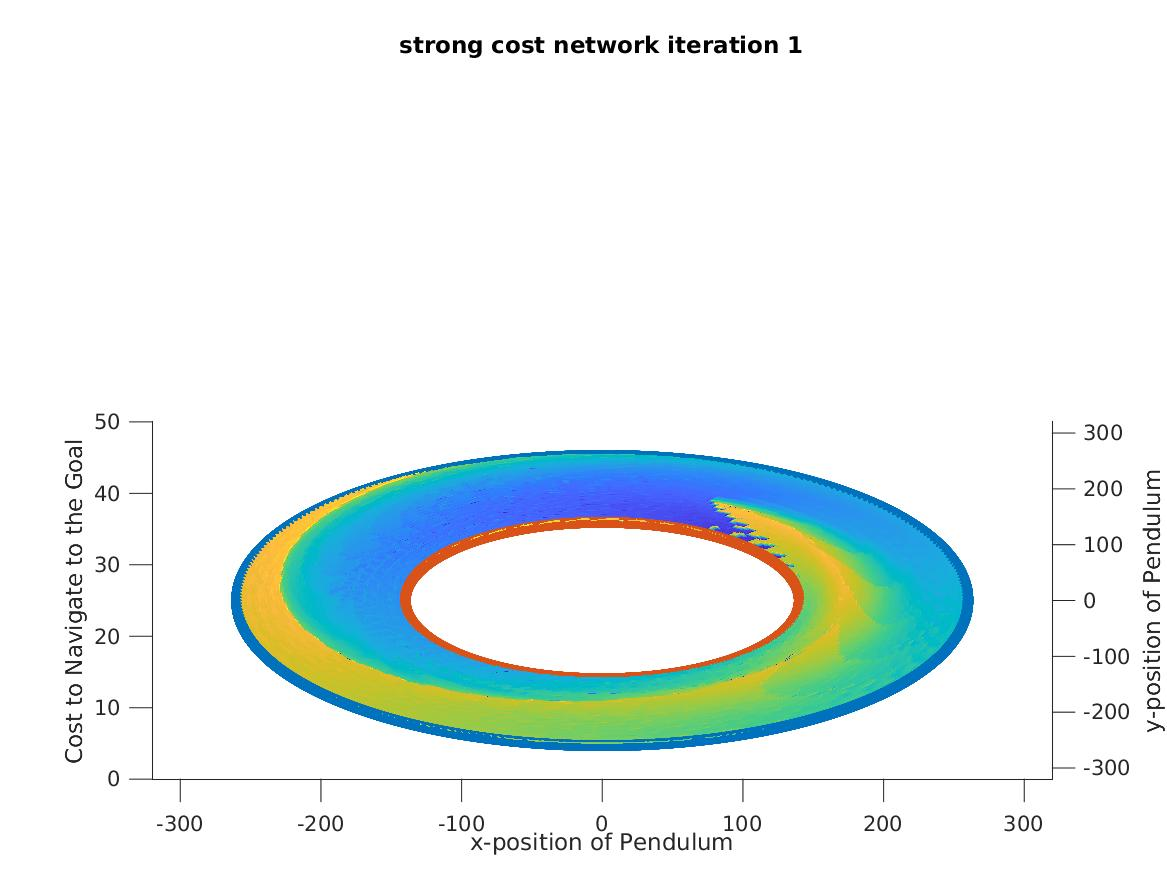
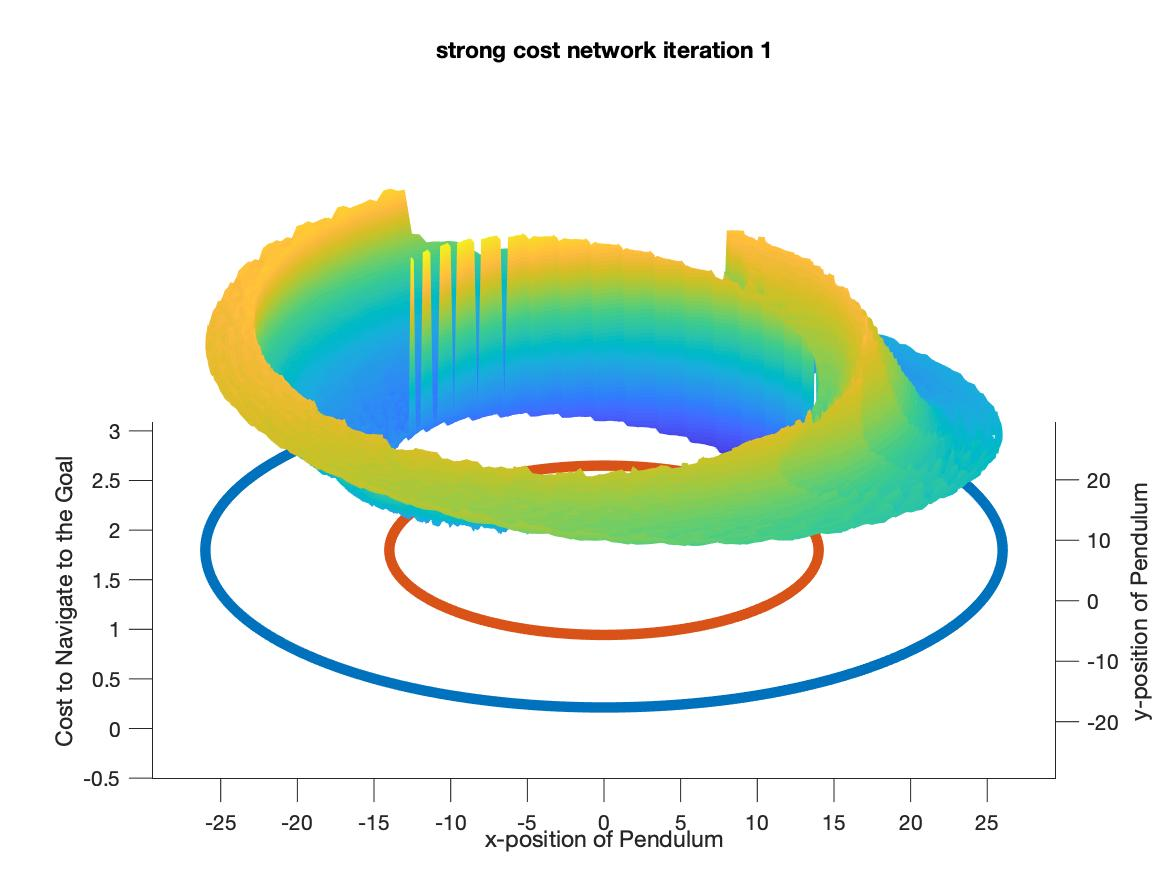
fixed plotting issue. testing

diff --git a/matlab/single_pendulum/dynamic-programming/show_cost_network.m b/matlab/single_pendulum/dynamic-programming/show_cost_network.m
@@ -1,27 +1,31 @@
 function show_cost_network(figure_file_name,path,all_angles,all_speeds,network, stats)
 statenvalues = get_state_n_value(network);
-rmean = 20;
-k = 10;
-kcost = 1/7;
+rdisk = 20;
+rcyl = stats.max;
+k = 1;
+kcost = 1;
 
 fig1 = figure;
 fig2 = figure;
 
 % plot network on a disk
-[x,y] = get_CN_disk_data(rmean,k,all_angles,all_speeds);
+[x,y] = get_CN_disk_data(rdisk,k,all_angles,all_speeds);
 z = get_disk_cost_height(kcost,all_angles, all_speeds, statenvalues);
 visualize_cost_network_on_disk(fig1,x,y,z,stats,figure_file_name);
 view(0, 45)
 saveas(fig1, [path 'discoidal_' figure_file_name '.jpg'],'jpeg')
 
 % plot the network on a cylinder
-[x,y,z] = get_CN_cylinder_data(rmean,all_angles,all_speeds,statenvalues);
+[x,y,z] = get_CN_cylinder_data(rcyl,all_angles,all_speeds,statenvalues);
 fig2 = visualize_cost_network_on_cylinder(fig2,x,y,z,figure_file_name);
 shading interp
-zlim([-10 10])
-xlim([-550 550])
-ylim([-550 550])
+axis([(-rcyl-stats.max-stats.std) (rcyl+stats.max+stats.std) (-rcyl-stats.max-stats.std) (rcyl+stats.max+stats.std) min(all_speeds) max(all_speeds)]);
+view(0,30)
 saveas(fig2, [path 'cylindrical_' figure_file_name '.jpg'],'jpeg')
+view(120,30)
+saveas(fig2, [path 'cylindrical_' figure_file_name '-120.jpg'],'jpeg')
+view(240,30)
+saveas(fig2, [path 'cylindrical_' figure_file_name '-240.jpg'],'jpeg')
 end
 
 %% functions

diff --git a/matlab/single_pendulum/dynamic-programming/visualize_network.m b/matlab/single_pendulum/dynamic-programming/visualize_network.m
@@ -30,11 +30,11 @@ fig1 = figure;
 fig2 = figure;
 fig3 = figure;
 fig4 = figure;
-rmean = 200;
+rdisk = 20;
 rcyl = stats.max;
 k = 10;
 kspeeds = k;
-kcost = 1/7;
+kcost = 1;
 N = sum(any(~cellfun('isempty',connections),2));
 flag = 1;
 clear x y z
@@ -52,7 +52,7 @@ end
 %% %%%%%%%%%%%%%%%%%%%%%%%%%%%%%%%%%%%%%%%%%%%%%%%%%%%%%%%%%%%%%%%%%%%%%%%
 %%%%%%%%%%%%%%%%%%%%%%% plot network on a disk %%%%%%%%%%%%%%%%%%%%%%%%%%%
 %%%%%%%%%%%%%%%%%%%%%%%%%%%%%%%%%%%%%%%%%%%%%%%%%%%%%%%%%%%%%%%%%%%%%%%%%%
-[x,y] = get_CN_disk_data(rmean,k,all_angles,all_speeds);
+[x,y] = get_CN_disk_data(rdisk,k,all_angles,all_speeds);
 plot_low_density_scatter(fig1,x,y,[4,20]);
 saveas(fig1, [path pendulum_type ' cost network scatter on flat disk-isometric.pdf'],'pdf'); %pause;
 clf(fig1)
@@ -65,7 +65,7 @@ clf(fig1)
 z = get_disk_cost_height(kcost,all_angles, all_speeds, statenvalues);
 switch flag
 	case 1 
-		[xx,yy,zz] = get_actual_data_for_disk(rmean,qactual,statenvalues,k,kcost);
+		[xx,yy,zz] = get_actual_data_for_disk(rdisk,qactual,statenvalues,k,kcost);
 		fig1 = visualize_cost_network_on_disk(fig1,x,y,z,xx,yy,zz,['Discoidal Representation of ' pendulum_type ' Pendulum''s Cost Network']);
 	case 0
 		fig1 = visualize_cost_network_on_disk(fig1,x,y,z,['Discoidal Representation of ' pendulum_type ' Pendulum''s Cost Network']);

diff --git a/matlab/single_pendulum/dynamic-programming/moderately_weak_script.m b/matlab/single_pendulum/dynamic-programming/moderately_weak_script.m
@@ -77,7 +77,7 @@
 % load(parameters.filename)
 % 
 % disp('Evaluating Network Connections')
-% N = sum(any(~cellfun('isempty',connections),2));
+N = sum(any(~cellfun('isempty',connections),2));
 % if ~exist(parameters.imagepath,'dir')
 %     mkdir(parameters.imagepath)
 % end
@@ -104,7 +104,9 @@ for iter = 1:N
 	close all
 end
 disp('Finished generating plots')
+exit();
 
+%% Functions
 function stats = netstats(network)
 	sz = size(network);
 	values = zeros(1,prod(sz));
@@ -119,4 +121,3 @@ function stats = netstats(network)
 	stats.min = min(values);
 	stats.std = std(values);
 end
-exit();
